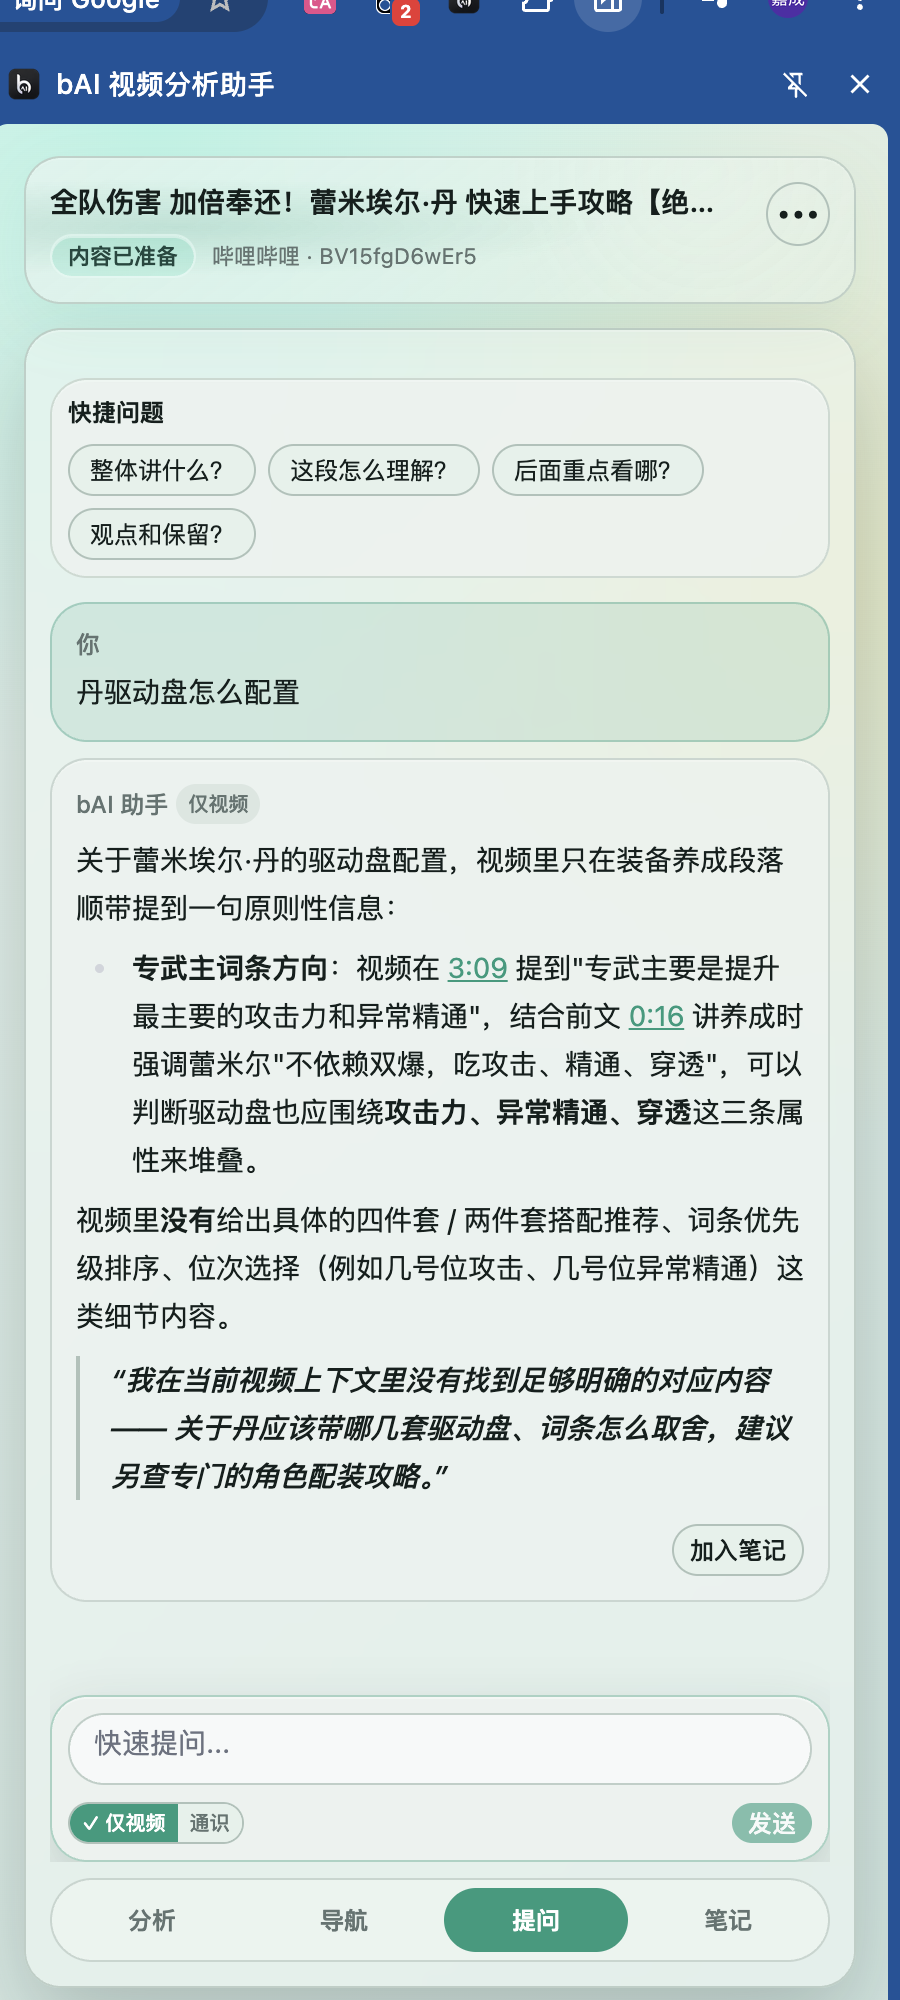
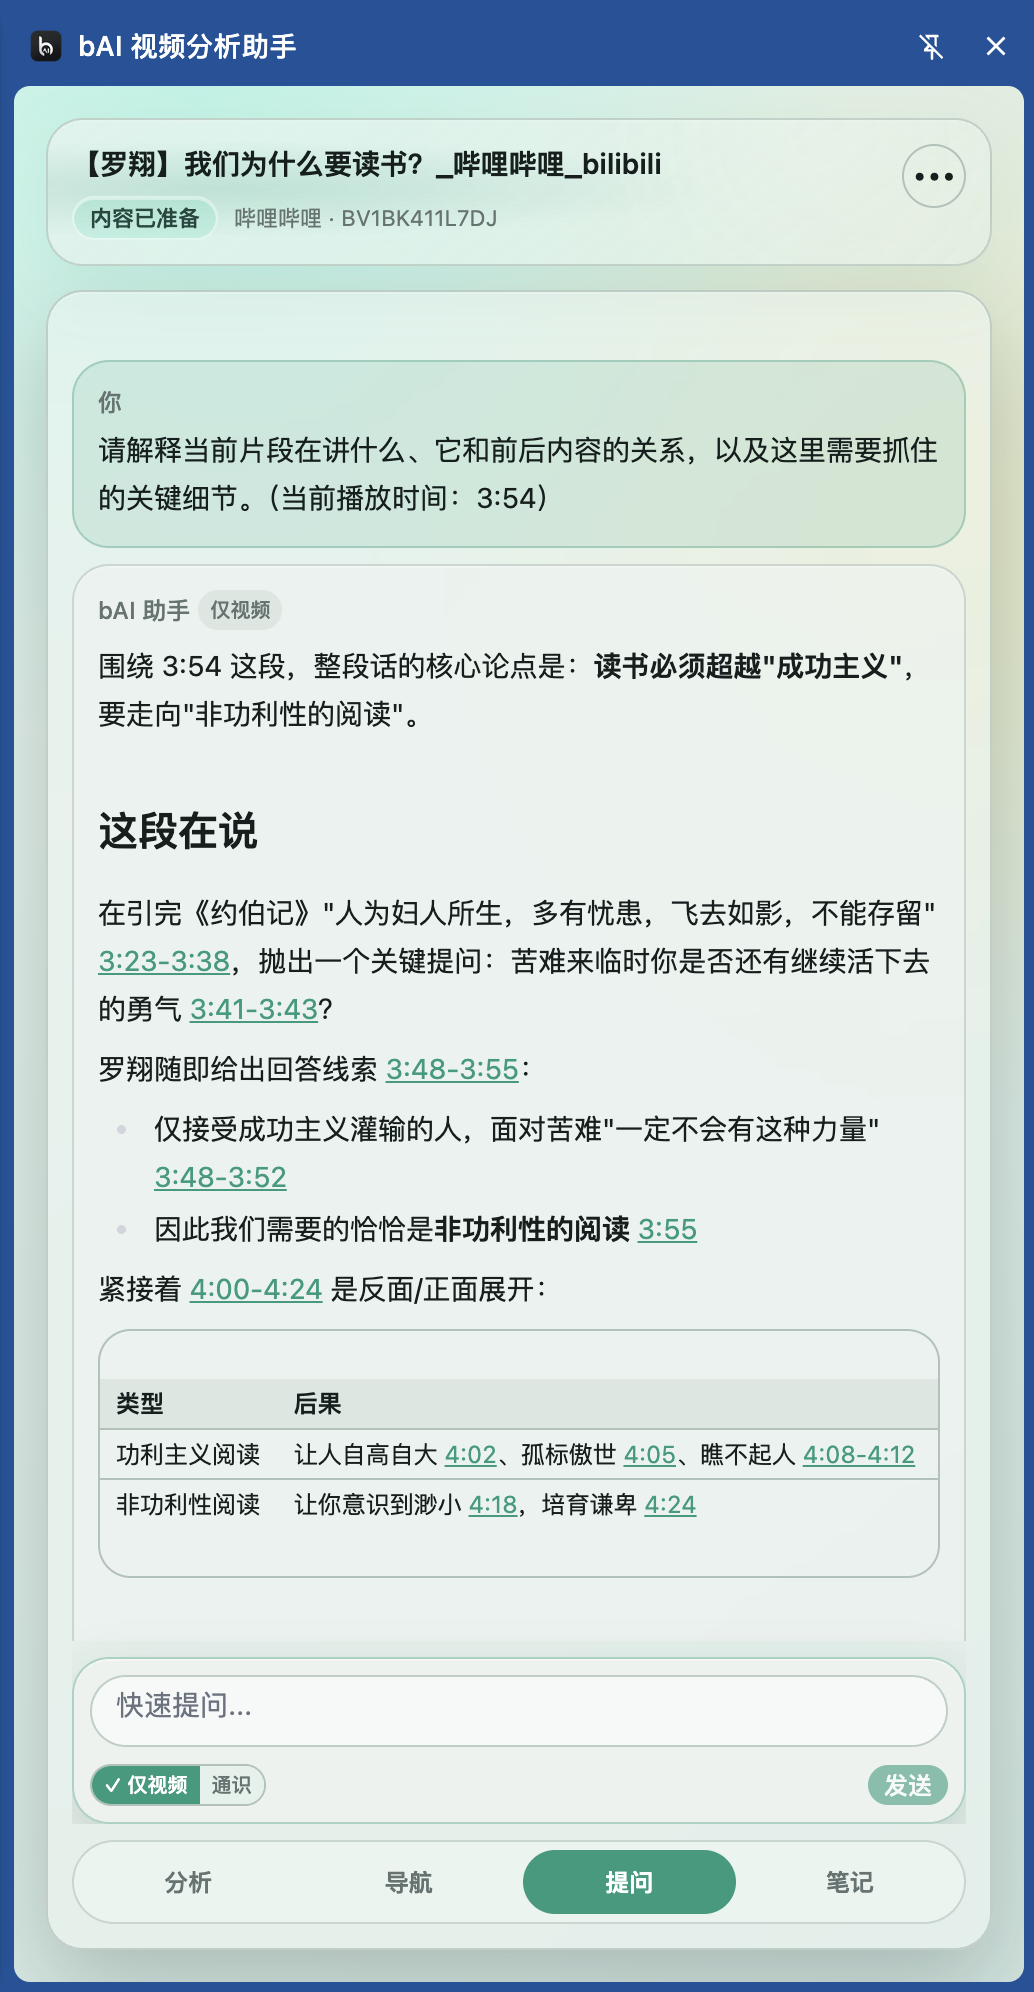
docs: replace README examples with real workflow

diff --git a/README.md b/README.md
@@ -28,22 +28,60 @@
 
 它不会替你给作者或视频下结论，而是尽量告诉你：**视频在讲什么、主要观点是什么、哪些地方值得优先查看，以及当前信息有哪些边界。**
 
-## 实际效果
+## 一条视频，怎么用它
 
-下面是插件分析一条哔哩哔哩游戏攻略时的真实结果，不是设计稿。
+下面四张图来自同一条哔哩哔哩视频《【罗翔】我们为什么要读书？》，不是设计稿，也不是为演示单独制作的结果。
+
+这个例子更接近 bAI 想做的事：**它不急着评价视频好不好，而是先帮你理解内容，再决定怎样投入时间。**
+
+### 01 打开想看的视频
+
+像平常一样打开 B 站视频，不需要下载或重新上传视频文件。插件会识别当前页面，并准备视频信息与可用字幕。
+
+<p align="center">
+  <a href="docs/images/bai-video-page-example.png">
+    <img src="docs/images/bai-video-page-example.png" width="900" alt="哔哩哔哩视频《我们为什么要读书》播放页面" />
+  </a>
+</p>
+
+### 02 先看一份快速分析
+
+分析页把这段约 10 分钟的演讲整理成快速预览、观看建议、内容精华、核心观点和适合人群。你可以先掌握“功利性阅读与非功利性阅读”这条主线，再决定完整观看还是按需参考。
+
+<p align="center">
+  <a href="docs/images/bai-analysis-example.png">
+    <img src="docs/images/bai-analysis-example.png" width="620" alt="bAI 对《我们为什么要读书》的快速分析" />
+  </a>
+</p>
+
+### 03 用导航找到想看的部分
+
+导航按照视频中的真实话题变化切分内容：为什么要读书、非功利性阅读的意义、阅读的悖论与智慧，以及应该读什么、怎么读。每个节点都有时间范围、内容类型和摘要，点击即可跳转。
+
+### 04 围绕当前片段提问
+
+播放到 `3:54` 时，可以直接问这一段在讲什么、与前后内容有什么关系。回答会结合当前片段解释观点，并给出视频中的时间引用，方便回到原处核对。
 
 <table>
   <tr>
-    <td width="50%" align="center"><strong>快速分析</strong></td>
-    <td width="50%" align="center"><strong>围绕视频提问</strong></td>
+    <td width="50%" align="center"><strong>内容导航</strong></td>
+    <td width="50%" align="center"><strong>片段问答</strong></td>
   </tr>
   <tr>
-    <td><img src="docs/images/bai-analysis-example.png" alt="bAI 视频快速分析实际样例" /></td>
-    <td><img src="docs/images/bai-question-example.png" alt="bAI 视频问答实际样例" /></td>
+    <td>
+      <a href="docs/images/bai-navigation-example.png">
+        <img src="docs/images/bai-navigation-example.png" alt="bAI 视频内容导航实际样例" />
+      </a>
+    </td>
+    <td>
+      <a href="docs/images/bai-question-example.png">
+        <img src="docs/images/bai-question-example.png" alt="bAI 围绕当前视频片段提问的实际样例" />
+      </a>
+    </td>
   </tr>
 </table>
 
-在这个样例中，插件会先提炼角色机制、配队建议、内容精华和信息边界；当问题超出视频实际讲到的范围时，它会明确告诉你证据不足，而不是把猜测伪装成视频结论。
+这就是插件目前最核心的使用路径：**先预览，再定位；需要时深入观看，遇到疑问就围绕视频追问。** 点击上面的图片可以查看原图。
 
 ## 它能做什么
 
